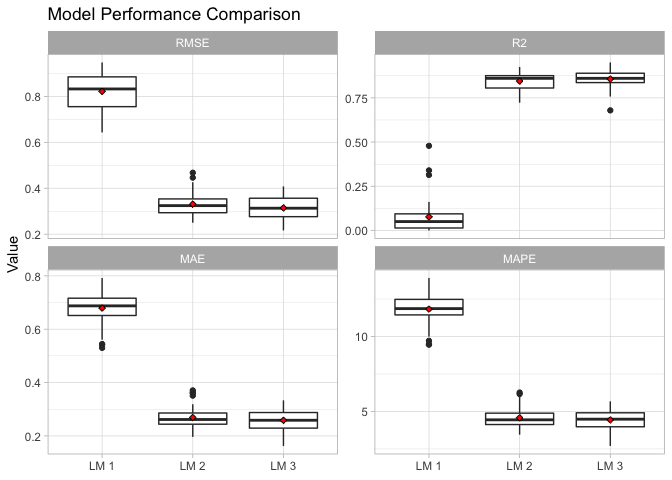
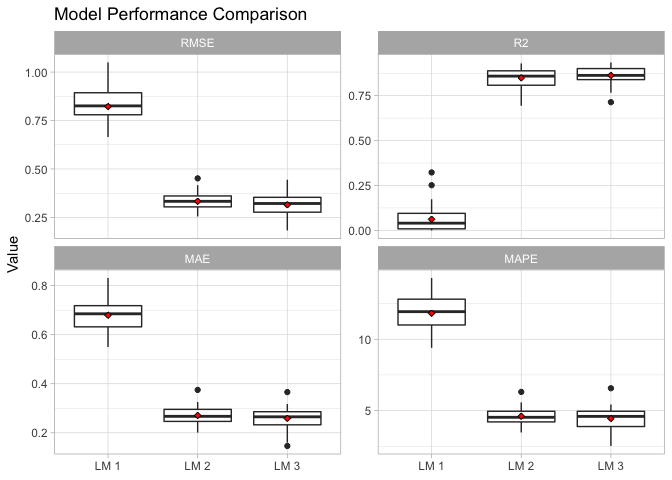
update README

diff --git a/README.md b/README.md
@@ -18,6 +18,8 @@ devtools::install_github("AndrewKostandy/MLtoolkit")
 Example: Comparing Model Performance
 ------------------------------------
 
+The two following sections demonstrate how to compute performance metrics for caret model objects across resamples for binary classification and regression plotting those results in each case.
+
 ### Binary Classification
 
 ``` r
@@ -65,12 +67,12 @@ compute_mod_results(glm_fit_1, "GLM 1") %>% head()
 #> # A tibble: 6 x 14
 #>   Model Resample   ROC Sensitivity Specificity Precision Accuracy
 #>   <chr> <chr>    <dbl>       <dbl>       <dbl>     <dbl>    <dbl>
-#> 1 GLM 1 Fold01.… 0.989       0.875       0.957     0.913    0.929
-#> 2 GLM 1 Fold01.… 0.964       0.917       0.913     0.846    0.914
-#> 3 GLM 1 Fold01.… 0.970       0.917       0.978     0.957    0.957
-#> 4 GLM 1 Fold01.… 0.976       0.875       0.957     0.913    0.929
-#> 5 GLM 1 Fold02.… 0.993       0.875       0.978     0.955    0.943
-#> 6 GLM 1 Fold02.… 0.984       1           0.978     0.96     0.986
+#> 1 GLM 1 Fold01.… 0.983       0.958       0.957     0.92     0.957
+#> 2 GLM 1 Fold01.… 0.980       0.833       0.978     0.952    0.928
+#> 3 GLM 1 Fold01.… 0.978       0.917       0.956     0.917    0.942
+#> 4 GLM 1 Fold01.… 0.992       0.958       0.978     0.958    0.971
+#> 5 GLM 1 Fold02.… 0.999       0.958       0.978     0.958    0.971
+#> 6 GLM 1 Fold02.… 0.991       0.958       1         1        0.986
 #> # ... with 7 more variables: `Cohen's Kappa` <dbl>, `F1 Score` <dbl>,
 #> #   `Matthews Corr. Coeff.` <dbl>, Concordance <dbl>, Discordance <dbl>,
 #> #   `Somer's D` <dbl>, `KS Statistic` <dbl>
@@ -79,17 +81,17 @@ compute_mod_results(glm_fit_1, "GLM 1") %>% head()
 The all\_mod\_results() function works with multiple caret model objects and computes their model performance results:
 
 ``` r
-mods_results <- all_mod_results(list(glm_fit_1, glm_fit_2, glm_fit_3), c("GLM 1", "GLM 2", "GLM 3"))
-mods_results %>% head()
+mod_results <- all_mod_results(list(glm_fit_1, glm_fit_2, glm_fit_3), c("GLM 1", "GLM 2", "GLM 3"))
+mod_results %>% head()
 #> # A tibble: 6 x 14
 #>   Model Resample   ROC Sensitivity Specificity Precision Accuracy
 #>   <chr> <chr>    <dbl>       <dbl>       <dbl>     <dbl>    <dbl>
-#> 1 GLM 1 Fold01.… 0.989       0.875       0.957     0.913    0.929
-#> 2 GLM 1 Fold01.… 0.964       0.917       0.913     0.846    0.914
-#> 3 GLM 1 Fold01.… 0.970       0.917       0.978     0.957    0.957
-#> 4 GLM 1 Fold01.… 0.976       0.875       0.957     0.913    0.929
-#> 5 GLM 1 Fold02.… 0.993       0.875       0.978     0.955    0.943
-#> 6 GLM 1 Fold02.… 0.984       1           0.978     0.96     0.986
+#> 1 GLM 1 Fold01.… 0.983       0.958       0.957     0.92     0.957
+#> 2 GLM 1 Fold01.… 0.980       0.833       0.978     0.952    0.928
+#> 3 GLM 1 Fold01.… 0.978       0.917       0.956     0.917    0.942
+#> 4 GLM 1 Fold01.… 0.992       0.958       0.978     0.958    0.971
+#> 5 GLM 1 Fold02.… 0.999       0.958       0.978     0.958    0.971
+#> 6 GLM 1 Fold02.… 0.991       0.958       1         1        0.986
 #> # ... with 7 more variables: `Cohen's Kappa` <dbl>, `F1 Score` <dbl>,
 #> #   `Matthews Corr. Coeff.` <dbl>, Concordance <dbl>, Discordance <dbl>,
 #> #   `Somer's D` <dbl>, `KS Statistic` <dbl>
@@ -98,7 +100,7 @@ mods_results %>% head()
 The plot\_mod\_results() function produces a box plot of the models performance results:
 
 ``` r
-plot_mod_results(mods_results, plot_columns = 3)
+plot_mod_results(mod_results, plot_columns = 3)
 ```
 
 <img src="man/figures/README-unnamed-chunk-5-1.png" width="100%" />
@@ -137,34 +139,34 @@ compute_mod_results(lm_fit_1, "LM 1") %>% head()
 #> # A tibble: 6 x 6
 #>   Model Resample     RMSE      R2   MAE  MAPE
 #>   <chr> <chr>       <dbl>   <dbl> <dbl> <dbl>
-#> 1 LM 1  Fold01.Rep1 0.859 0.0139  0.671 11.5 
-#> 2 LM 1  Fold01.Rep2 0.909 0.00499 0.740 12.5 
-#> 3 LM 1  Fold01.Rep3 0.775 0.00182 0.641 11.4 
-#> 4 LM 1  Fold01.Rep4 0.833 0.0842  0.691 12.0 
-#> 5 LM 1  Fold02.Rep1 0.833 0.0519  0.694 11.8 
-#> 6 LM 1  Fold02.Rep2 0.643 0.132   0.530  9.71
+#> 1 LM 1  Fold01.Rep1 1.05  0.00124 0.831  13.3
+#> 2 LM 1  Fold01.Rep2 0.896 0.00265 0.681  10.9
+#> 3 LM 1  Fold01.Rep3 0.893 0.0816  0.711  12.1
+#> 4 LM 1  Fold01.Rep4 0.945 0.00249 0.759  12.9
+#> 5 LM 1  Fold02.Rep1 0.809 0.0176  0.739  13.2
+#> 6 LM 1  Fold02.Rep2 0.830 0.323   0.680  11.8
 ```
 
 The all\_mod\_results() function works with multiple caret model objects and computes their model performance results:
 
 ``` r
-mods_results <- all_mod_results(list(lm_fit_1, lm_fit_2, lm_fit_3), c("LM 1", "LM 2", "LM 3"))
-mods_results %>% head()
+mod_results <- all_mod_results(list(lm_fit_1, lm_fit_2, lm_fit_3), c("LM 1", "LM 2", "LM 3"))
+mod_results %>% head()
 #> # A tibble: 6 x 6
 #>   Model Resample     RMSE      R2   MAE  MAPE
 #>   <chr> <chr>       <dbl>   <dbl> <dbl> <dbl>
-#> 1 LM 1  Fold01.Rep1 0.859 0.0139  0.671 11.5 
-#> 2 LM 1  Fold01.Rep2 0.909 0.00499 0.740 12.5 
-#> 3 LM 1  Fold01.Rep3 0.775 0.00182 0.641 11.4 
-#> 4 LM 1  Fold01.Rep4 0.833 0.0842  0.691 12.0 
-#> 5 LM 1  Fold02.Rep1 0.833 0.0519  0.694 11.8 
-#> 6 LM 1  Fold02.Rep2 0.643 0.132   0.530  9.71
+#> 1 LM 1  Fold01.Rep1 1.05  0.00124 0.831  13.3
+#> 2 LM 1  Fold01.Rep2 0.896 0.00265 0.681  10.9
+#> 3 LM 1  Fold01.Rep3 0.893 0.0816  0.711  12.1
+#> 4 LM 1  Fold01.Rep4 0.945 0.00249 0.759  12.9
+#> 5 LM 1  Fold02.Rep1 0.809 0.0176  0.739  13.2
+#> 6 LM 1  Fold02.Rep2 0.830 0.323   0.680  11.8
 ```
 
 The plot\_mod\_results() function produces a box plot of the models performance results:
 
 ``` r
-plot_mod_results(mods_results)
+plot_mod_results(mod_results)
 ```
 
 <img src="man/figures/README-unnamed-chunk-10-1.png" width="100%" />
